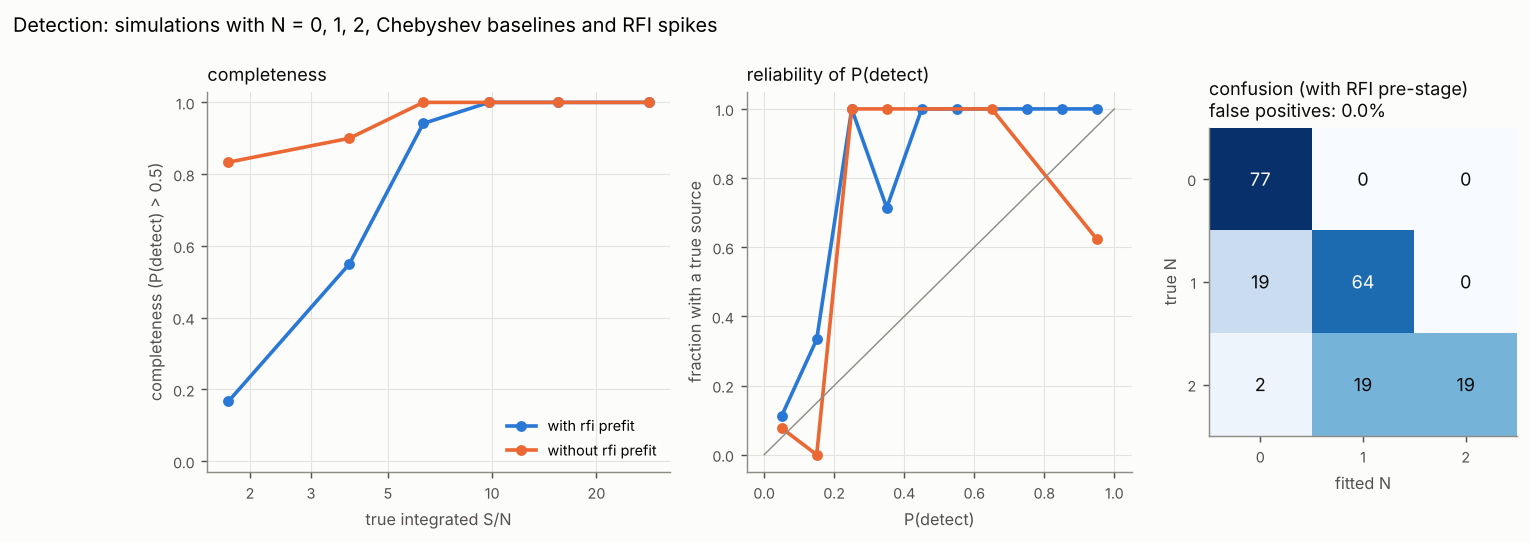
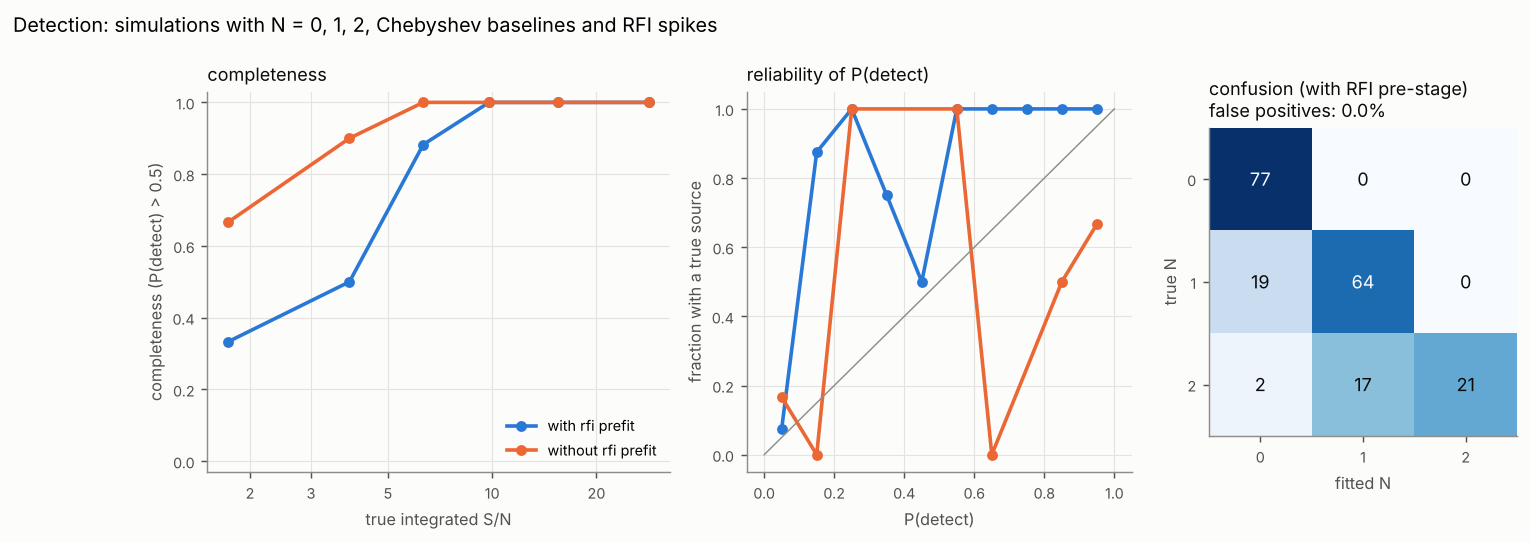
Validation: SBC, detection and misspecification refitted with contained components
Claude-Session: https://claude.ai/code/session_01HNuVsUUJVtD1RaQHWi7F3J

diff --git a/docs/validation.md b/docs/validation.md
@@ -3,13 +3,11 @@
 Everything on this page comes from runs of `benchmarks/validate_all.sh` on
 a 4-core machine with the default configuration (full mode, SMC sampler,
 N ≤ 2, K ≤ 3, RFI pre-stage, Δv ~ Gamma(2.3, 83 km/s), f ~ Beta(1, 3)),
-5 km/s channels unless stated otherwise. Detection and misspecification
-were refitted at 84320c4 with the current RFI pre-stage (symmetric outlier
-background, runs below the model masked whatever their length). The SBC,
-which fits without the pre-stage, was refitted at 0ba7787, after two fixes
-found on bright ALFALFA spectra (the orthant probability of two amplitudes
-far in the tail, 8433605) and with the `residual_structure` flag; it came
-out identical apart from the flags. The bias and ALFALFA fits were made at
+5 km/s channels unless stated otherwise. SBC, detection and
+misspecification were refitted at d053ea5, with profile components
+contained in the band (`priors.contain`; simulations and fits use it) and
+the current RFI pre-stage (symmetric outlier background, runs below the
+model masked whatever their length). The bias and ALFALFA fits were made at
 commit 2724f8a (the Δv prior), and later commits only add the Springob
 et al. (2005) widths, which
 `benchmarks/add_springob.py` computed from the stored spectra and
@@ -33,7 +31,7 @@ chosen:
   20 % of the same lines it gives a W20, which is our extension of the
   method (λ is calibrated for W_F50 only). Where a flank cannot be fitted
   (fit rising away from the horn, crossing outside the window) it gives no
-  value; that happens for 14 % of the detected SBC lines, nearly all at
+  value; that happens for 18 % of the detected SBC lines, nearly all at
   S/N < 8.
 
 | stage | command | spectra |
@@ -58,24 +56,25 @@ rate.
 
 | parameter | rank p-value | 68 % coverage | 95 % coverage |
 |---|---|---|---|
-| v_ctr | 0.79 | 0.68 | 0.96 |
-| Δv | 0.54 | 0.69 | 0.94 |
-| Δv_rand | 0.03 | 0.69 | 0.95 |
-| α | 0.18 | 0.67 | 0.95 |
-| S | 0.21 | 0.68 | 0.95 |
-| f | 0.48 | 0.70 | 0.94 |
-| W50 | 0.10 | 0.70 | 0.94 |
-| W20 | 0.96 | 0.68 | 0.93 |
+| v_ctr | 0.07 | 0.71 | 0.96 |
+| Δv | 0.80 | 0.68 | 0.94 |
+| Δv_rand | 0.11 | 0.71 | 0.94 |
+| α | 0.87 | 0.67 | 0.95 |
+| S | 0.45 | 0.68 | 0.95 |
+| f | 0.13 | 0.69 | 0.95 |
+| W50 | 0.03 | 0.68 | 0.96 |
+| W20 | 0.52 | 0.68 | 0.95 |
 
 ![SBC: rank histograms, interval coverage and baseline-order calibration](img/sbc.png)
 
 The 68 % coverages lie inside the ±2σ band for 1000 simulations
-(0.65–0.71), the 95 % coverages inside theirs (0.936–0.964) except W20 at
-0.932. Seven of eight rank histograms are flat (p ≥ 0.1); the Δv_rand
-histogram has p = 0.03 (counts 82, 97, 88, 130, 100, 116, 88, 95, 98, 106
-in ten bins), one high bin without a slope or U shape. With eight tests, one
-p below 0.05 turns up by chance in a third of all runs. With
-the previous log-normal Δv prior the same test gave p = 0.39. The faint
+(0.65–0.71), the 95 % coverages inside theirs (0.936–0.964). Seven of eight
+rank histograms pass (p ≥ 0.07); the W50 histogram has p = 0.03 (counts
+112, 104, 79, 88, 99, 129, 92, 108, 87, 102 in ten bins), one high and one
+low bin without a slope or U shape. With eight tests, one p below 0.05
+turns up by chance in a third of all runs; the previous run, without
+containment, had the same pattern in Δv_rand (p = 0.03) and a flat W50
+(p = 0.10). The faint
 draws of the flux prior that are not detected take part like every other
 simulation.
 
@@ -85,10 +84,10 @@ panel) follows the diagonal. The confusion matrix (rows: true K, columns:
 most probable K) is one-sided:
 
 ```
-  266      2      0      0
-   14    229      0      0
-    5     13    222      0
-    2      6     25    216
+  267      1      0      0
+   14    227      2      0
+    5     15    219      1
+    1      6     26    216
 ```
 
 A true K = 3 whose highest coefficients happen to be small is read as K = 2,
@@ -96,20 +95,20 @@ the right answer for terms the data cannot see. This calibration holds when
 the baseline prior matches the baselines; Stage 3 shows what happens when
 it does not.
 
-**Flags.** 12.2 % of the fits carry a flag: `prior_edge` 5.5 % (Δv_rand at
+**Flags.** 12.9 % of the fits carry a flag: `prior_edge` 6.8 % (Δv_rand at
 its 4 km/s bound for faint, narrow lines), `prior_dominated` 3.4 %,
-`wiggle` 2.1 %, `multimodal` 1.3 %, `ppp` 1.1 %, `residual_structure` 0.1 % (its
+`wiggle` 2.0 %, `ppp` 1.0 %, `multimodal` 0.8 %, `residual_structure` 0.1 % (its
 calibrated false-alarm rate).
 
-The same simulations measured against the truth (726 detected, N = 1;
+The same simulations measured against the truth (739 detected, N = 1;
 median error and robust scatter):
 
 | quantity | Bayes | naive | Springob |
 |---|---|---|---|
-| W50 [km/s] | 0.4 ± 10.6 | 0.3 ± 22.2 | −7.5 ± 22.6 (624 measured) |
-| W20 [km/s] | 0.4 ± 12.6 | 27.7 ± 35.5 | −10.1 ± 32.8 |
-| S [Jy km/s] | 0.01 ± 0.36 | 0.04 ± 0.39 | – |
-| v_sys [km/s] | 0.0 ± 4.8 | 0.1 ± 9.0 | 0.4 ± 9.3 |
+| W50 [km/s] | 0.0 ± 10.6 | −0.3 ± 21.0 | −7.4 ± 21.5 (607 measured) |
+| W20 [km/s] | 0.4 ± 11.6 | 28.9 ± 37.0 | −8.8 ± 32.5 |
+| S [Jy km/s] | 0.01 ± 0.38 | 0.05 ± 0.39 | – |
+| v_sys [km/s] | −0.3 ± 4.8 | −0.5 ± 8.5 | −0.2 ± 9.2 |
 
 ![Line widths: Bayesian fit against the two classical measurements](img/bayes_vs_classic.png)
 
@@ -138,15 +137,15 @@ automatic flux-prior scale.
 | | with RFI pre-stage | without |
 |---|---|---|
 | false positives, P(detect) > 0.5 / 0.9 | 0 of 77 / 0 | 83 % / 83 % |
-| completeness S/N 3–5 / 5–8 / ≥ 8 | 0.50 / 0.94 / 1.00 | 0.90 / 1.00 / 1.00 |
-| flagged | 4.0 % | 87 % |
+| completeness S/N 3–5 / 5–8 / ≥ 8 | 0.50 / 0.88 / 1.00 | 0.90 / 1.00 / 1.00 |
+| flagged | 4.0 % | 86 % |
 
 Confusion matrix with the pre-stage (rows: true N, columns: most probable N):
 
 ```
    77      0      0
    19     64      0
-    2     18     20
+    2     17     21
 ```
 
 * **N = 0 and N = 1** are separated cleanly: no false positive at any
@@ -156,13 +155,13 @@ Confusion matrix with the pre-stage (rows: true N, columns: most probable N):
   the same effect.
 * **The completeness** at S/N 3–5 is that of the SBC, which has no RFI, so
   the pre-stage costs none.
-* **N = 2.** Of the 18 pairs with both components at S/N > 6 and separated
-  by more than their width, 15 are fitted as N = 2. Pairs with a second
+* **N = 2.** Of the 19 pairs with both components at S/N > 6 and separated
+  by more than their width, 17 are fitted as N = 2. Pairs with a second
   component below S/N 6 (21 of 40) are mostly fitted as N = 1: a second line
   at S/N 3 is not detectable on its own either.
 * Widths of the detected single lines (bias ± scatter, km/s): W50
-  0.1 ± 8.1 (naive −1.9 ± 11.9, Springob −0.7 ± 12.8), W20 0.4 ± 9.5
-  (naive 26.3 ± 35.3, Springob 0.3 ± 13.3).
+  0.0 ± 9.9 (naive −1.2 ± 12.3, Springob −4.5 ± 12.8), W20 0.0 ± 9.2
+  (naive 25.6 ± 30.5, Springob −3.8 ± 19.6).
 * **The symmetric pre-stage** (current default) against the earlier
   positive-only one: no false positive either way; completeness at S/N 3–5
   0.50 instead of 0.55 (one line of 20). Narrow test lines (Δv = 20 and
@@ -183,26 +182,26 @@ scale.
 
 | set | flagged | W50 bias / scatter [km/s] | 68 % coverage of W50 | W50 scatter naive / Springob | W20 bias / scatter: Bayes, naive, Springob |
 |---|---|---|---|---|---|
-| clean | 6 % | 0.7 / 5.0 | 0.75 | 11.8 / 8.3 | 1.3 / 4.4, 14.5 / 23.7, 3.5 / 6.8 |
-| template | 5 % | −1.3 / 6.7 | 0.69 | 9.1 / 11.4 | −0.3 / 7.6, 8.2 / 20.7, −1.4 / 12.2 |
-| sine baseline | 100 % | −0.2 / 29.8 | 0.30 | 33.9 / 27.0 | −1.2 / 24.7, 7.7 / 60.7, −0.3 / 31.2 |
-| RFI unmasked | 100 % | −104 / 110 | 0.16 | 106 / 77 | −106 / 128, −142 / 127, −39 / 67 |
-| baseline prior 50 × too wide | 9 % | 0.8 / 4.5 | 0.72 | 13.3 / 8.0 | 0.3 / 7.2, 26.1 / 38.8, 1.1 / 13.5 |
+| clean | 8 % | −0.3 / 4.9 | 0.71 | 10.6 / 10.0 | 0.8 / 4.4, 7.4 / 19.8, 2.9 / 9.7 |
+| template | 6 % | −1.5 / 6.1 | 0.72 | 11.8 / 10.6 | 0.6 / 6.7, 18.7 / 26.4, 0.3 / 12.7 |
+| sine baseline | 100 % | −1.8 / 31.6 | 0.28 | 29.5 / 24.6 | −2.3 / 44.9, 2.1 / 51.0, 1.0 / 33.9 |
+| RFI unmasked | 100 % | −96 / 122 | 0.15 | 106 / 57 | −105 / 135, −120 / 140, −29 / 61 |
+| baseline prior 50 × too wide | 12 % | 0.8 / 7.4 | 0.71 | 12.2 / 11.0 | 1.2 / 6.6, 24.1 / 36.5, 2.2 / 14.2 |
 
 * The model describes the galaxy-like templates well enough that the widths
   stay unbiased and calibrated, with less scatter than either classical
   method, which see the same profiles.
 * When the model is wrong the posteriors are overconfident, as any
   posterior of a wrong model is, but the flags catch it:
-  `residual_structure` marks every sine-baseline fit and `ppp` 97 % of
+  `residual_structure` marks every sine-baseline fit and `ppp` 98 % of
   them (the symmetric pre-stage masks some of the wave's troughs as runs
-  below the model, which widens the W50 scatter from 25 to 30 km/s there); `ppp`, `prior_edge`, `unresolved`, `residual_structure` (89 %) and
+  below the model, which widens the W50 scatter from 25 to 30 km/s there); `ppp`, `prior_edge`, `unresolved`, `residual_structure` (88 %) and
   `wiggle` mark the RFI fits. Unmasked RFI hurts the
   Springob widths least, because a spike rarely lies on a flank; it is
   still the flagged fits that tell the user something is wrong.
 * **A wrong baseline prior** leaves the line parameters unbiased and
   calibrated, but not the baseline order: the most probable K is right in
-  42 % of the spectra, nearly always too low (22 of 28 true K = 3 are fitted
+  41 % of the spectra, nearly always too low (23 of 28 true K = 3 are fitted
   as K = 0). Coefficients of 0.2 σ per channel are barely visible, and with
   a prior 50 times too wide the Occam factor wins. The `p_k` columns of the
   catalogue are calibrated only with a fitting `priors.baseline_scale`, for
